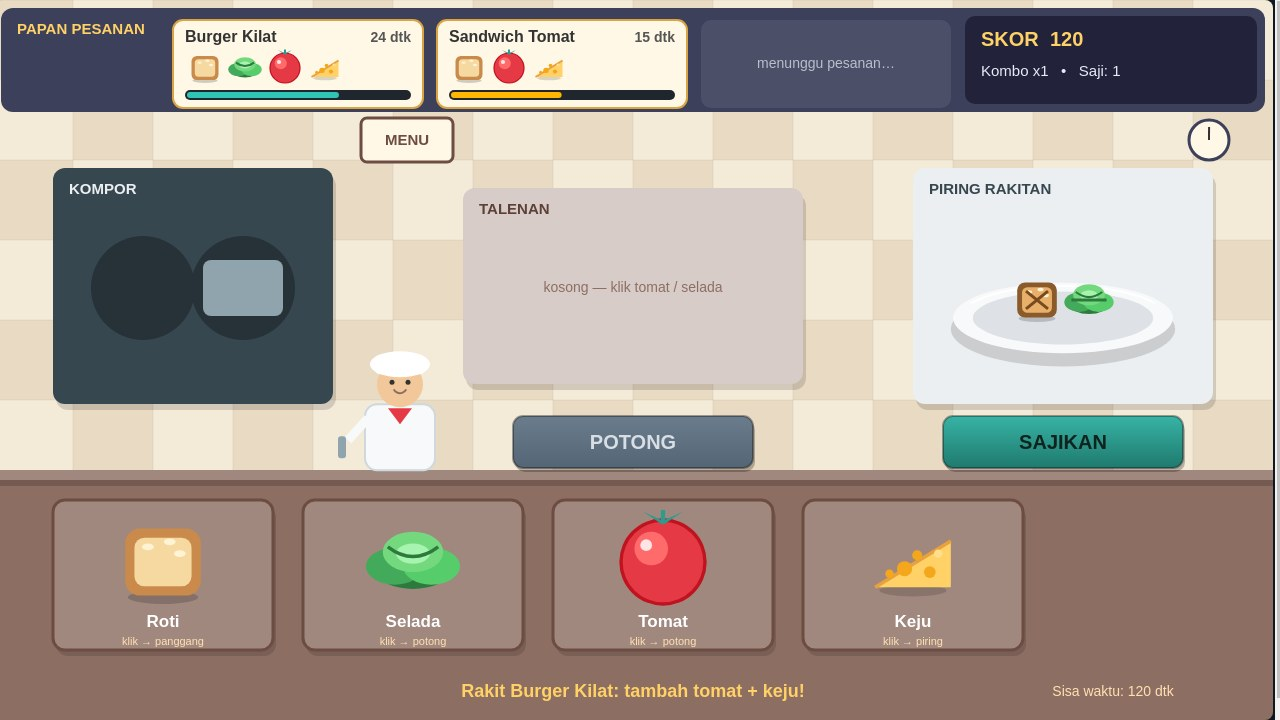
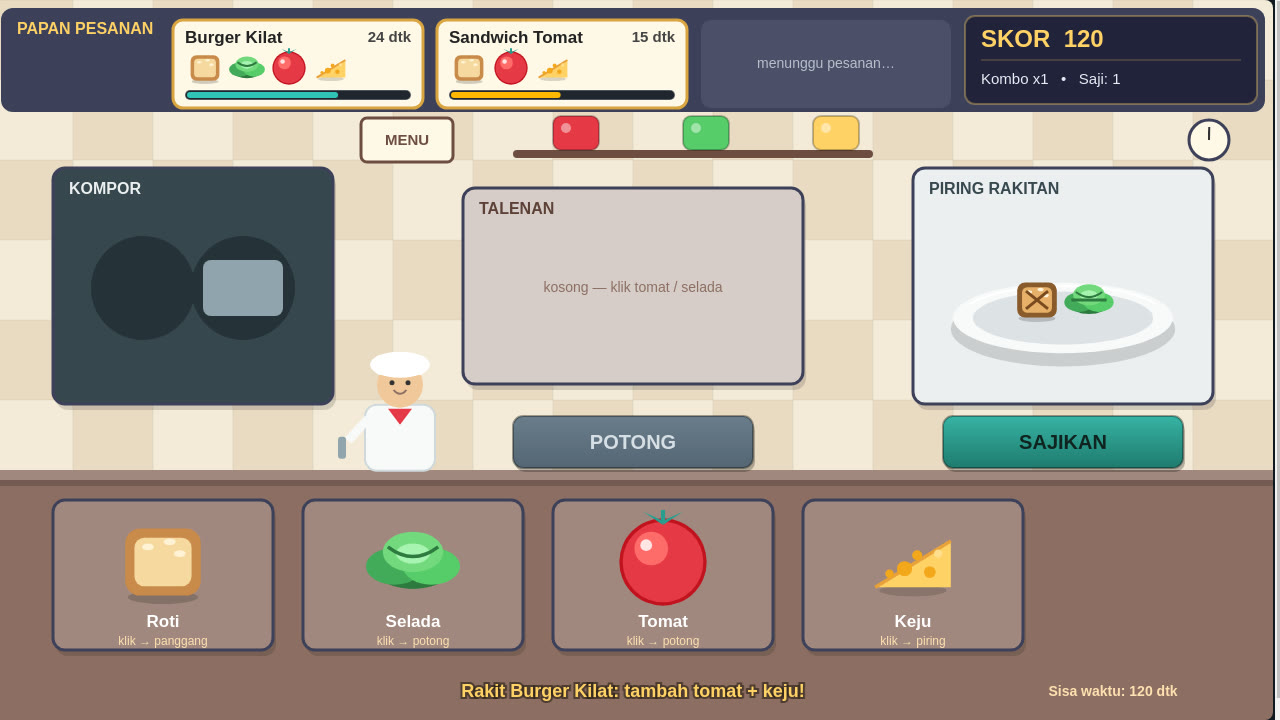
Polish profesional Dapur Kilat (ronde 3, terakhir): palet+outline seragam, tipografi hierarki, skor besar, rak toples, animasi tekan/pop, uap kompor

diff --git a/game/src/kitchen.js b/game/src/kitchen.js
@@ -29,6 +29,17 @@ function panelShadow(ctx, x, y, w, h) {
   ctx.fill();
 }
 
+// Panel seragam: bayangan + isi + garis tepi 3px warna garis palet, sudut 12.
+function panel(ctx, x, y, w, h, fill) {
+  panelShadow(ctx, x, y, w, h);
+  rr(ctx, x, y, w, h, R_PANEL);
+  ctx.fillStyle = fill;
+  ctx.fill();
+  ctx.lineWidth = LINE_W;
+  ctx.strokeStyle = PAL.line;
+  ctx.stroke();
+}
+
 function hitBin(x, y) {
   for (const b of LAYOUT.bins) {
     if (pointIn(b, x, y)) return b.kind;
@@ -70,7 +81,7 @@ function drawKitchen(ctx, G) {
   rr(ctx, LAYOUT.board.x, LAYOUT.board.y, LAYOUT.board.w, LAYOUT.board.h, 12);
   ctx.fillStyle = '#3d405b';
   ctx.fill();
-  txt(ctx, 'PAPAN PESANAN', 24, 30, 15, '#ffd166', 'left', true);
+  txt(ctx, 'PAPAN PESANAN', 24, 30, 16, '#ffd166', 'left', true);
   let cx = 180;
   for (let i = 0; i < 3; i++) {
     const o = G.orders[i];
@@ -88,8 +99,17 @@ function drawKitchen(ctx, G) {
   rr(ctx, LAYOUT.scoreBox.x, LAYOUT.scoreBox.y, LAYOUT.scoreBox.w, LAYOUT.scoreBox.h, 10);
   ctx.fillStyle = '#22223b';
   ctx.fill();
-  txt(ctx, 'SKOR  ' + G.score, LAYOUT.scoreBox.x + 16, LAYOUT.scoreBox.y + 24, 20, '#ffd166', 'left', true);
-  txt(ctx, 'Kombo x' + G.combo + '   •   Saji: ' + G.served, LAYOUT.scoreBox.x + 16, LAYOUT.scoreBox.y + 56, 15, '#e8eaf6', 'left');
+  ctx.lineWidth = 2;
+  ctx.strokeStyle = 'rgba(255,209,102,.35)';
+  ctx.stroke();
+  txt(ctx, 'SKOR  ' + G.score, LAYOUT.scoreBox.x + 16, LAYOUT.scoreBox.y + 24, 24, '#ffd166', 'left', true);
+  ctx.strokeStyle = 'rgba(255,209,102,.35)';
+  ctx.lineWidth = 1;
+  ctx.beginPath();
+  ctx.moveTo(LAYOUT.scoreBox.x + 16, LAYOUT.scoreBox.y + 44);
+  ctx.lineTo(LAYOUT.scoreBox.x + LAYOUT.scoreBox.w - 16, LAYOUT.scoreBox.y + 44);
+  ctx.stroke();
+  txt(ctx, 'Kombo x' + G.combo + '   •   Saji: ' + G.served, LAYOUT.scoreBox.x + 16, LAYOUT.scoreBox.y + 64, 15, '#e8eaf6', 'left');
   // papan menu kecil + jam dinding (strip kosong y 112..168)
   rr(ctx, 368, 118, 92, 44, 6);
   ctx.fillStyle = '#fff8e7';
@@ -109,12 +129,24 @@ function drawKitchen(ctx, G) {
   ctx.lineTo(1216 + Math.cos(ha) * 13, 140 + Math.sin(ha) * 13); ctx.stroke();
   ctx.beginPath(); ctx.moveTo(1216, 140);
   ctx.lineTo(1216, 140 - 9); ctx.stroke();
-  // kompor
-  panelShadow(ctx, LAYOUT.stove.x, LAYOUT.stove.y, LAYOUT.stove.w, LAYOUT.stove.h);
-  rr(ctx, LAYOUT.stove.x, LAYOUT.stove.y, LAYOUT.stove.w, LAYOUT.stove.h, 12);
-  ctx.fillStyle = '#37474f';
+  // rak dinding dengan toples — kedalaman latar (strip kosong y 112..168)
+  rr(ctx, 520, 150, 360, 8, 4);
+  ctx.fillStyle = '#6d4c41';
   ctx.fill();
-  txt(ctx, 'KOMPOR', LAYOUT.stove.x + 16, LAYOUT.stove.y + 22, 15, '#eceff1', 'left', true);
+  const jars = ['#e63946', '#57cc6a', '#ffd166'];
+  for (let j = 0; j < 3; j++) {
+    const jx = 560 + j * 130;
+    rr(ctx, jx, 116, 46, 34, 8);
+    ctx.fillStyle = jars[j];
+    ctx.fill();
+    ctx.lineWidth = 2;
+    ctx.strokeStyle = 'rgba(0,0,0,.25)';
+    ctx.stroke();
+    circle(ctx, jx + 13, 128, 5, 'rgba(255,255,255,.45)');
+  }
+  // kompor
+  panel(ctx, LAYOUT.stove.x, LAYOUT.stove.y, LAYOUT.stove.w, LAYOUT.stove.h, '#37474f');
+  txt(ctx, 'KOMPOR', LAYOUT.stove.x + 16, LAYOUT.stove.y + 22, 16, '#eceff1', 'left', true);
   circle(ctx, LAYOUT.stove.x + 90, LAYOUT.stove.y + 120, 52, '#263238');
   circle(ctx, LAYOUT.stove.x + 190, LAYOUT.stove.y + 120, 52, '#263238');
   rr(ctx, LAYOUT.stove.x + 150, LAYOUT.stove.y + 92, 80, 56, 8);
@@ -132,6 +164,7 @@ function drawKitchen(ctx, G) {
     circle(ctx, LAYOUT.stove.x + 76, LAYOUT.stove.y - 6 - st, 9, 'rgba(255,255,255,.45)');
     circle(ctx, LAYOUT.stove.x + 104, LAYOUT.stove.y - 18 - ((st + 18) % 46), 7, 'rgba(255,255,255,.35)');
     circle(ctx, LAYOUT.stove.x + 90, LAYOUT.stove.y - 12 - ((st + 32) % 46), 6, 'rgba(255,255,255,.3)');
+    circle(ctx, LAYOUT.stove.x + 118, LAYOUT.stove.y - 10 - ((st + 40) % 46), 8, 'rgba(255,255,255,.4)');
     ctx.strokeStyle = 'rgba(255,255,255,.35)';
     ctx.lineWidth = 3;
     ctx.beginPath();
@@ -142,11 +175,8 @@ function drawKitchen(ctx, G) {
     drawTimerBar(ctx, LAYOUT.stove.x + 30, LAYOUT.stove.y + 190, 220, 12, G.toasting.prog);
   }
   // talenan
-  panelShadow(ctx, LAYOUT.cutBoard.x, LAYOUT.cutBoard.y, LAYOUT.cutBoard.w, LAYOUT.cutBoard.h);
-  rr(ctx, LAYOUT.cutBoard.x, LAYOUT.cutBoard.y, LAYOUT.cutBoard.w, LAYOUT.cutBoard.h, 12);
-  ctx.fillStyle = '#d7ccc8';
-  ctx.fill();
-  txt(ctx, 'TALENAN', LAYOUT.cutBoard.x + 16, LAYOUT.cutBoard.y + 22, 15, '#5d4037', 'left', true);
+  panel(ctx, LAYOUT.cutBoard.x, LAYOUT.cutBoard.y, LAYOUT.cutBoard.w, LAYOUT.cutBoard.h, '#d7ccc8');
+  txt(ctx, 'TALENAN', LAYOUT.cutBoard.x + 16, LAYOUT.cutBoard.y + 22, 16, '#5d4037', 'left', true);
   if (G.cutting) {
     const shown = G.cutting.cutting && G.cutting.prog > 0 ? 'potong' : 'mentah';
     drawIngredient(ctx, G.cutting.kind, LAYOUT.cutBoard.x + 170, LAYOUT.cutBoard.y + 100, 90, shown);
@@ -161,28 +191,20 @@ function drawKitchen(ctx, G) {
   // koki kecil di celah kompor-talenan
   drawChef(ctx, G);
   // area piring rakitan
-  panelShadow(ctx, LAYOUT.plateArea.x, LAYOUT.plateArea.y, LAYOUT.plateArea.w, LAYOUT.plateArea.h);
-  rr(ctx, LAYOUT.plateArea.x, LAYOUT.plateArea.y, LAYOUT.plateArea.w, LAYOUT.plateArea.h, 12);
-  ctx.fillStyle = '#eceff1';
-  ctx.fill();
-  txt(ctx, 'PIRING RAKITAN', LAYOUT.plateArea.x + 16, LAYOUT.plateArea.y + 22, 15, '#37474f', 'left', true);
+  panel(ctx, LAYOUT.plateArea.x, LAYOUT.plateArea.y, LAYOUT.plateArea.w, LAYOUT.plateArea.h, '#eceff1');
+  txt(ctx, 'PIRING RAKITAN', LAYOUT.plateArea.x + 16, LAYOUT.plateArea.y + 22, 16, '#37474f', 'left', true);
   drawPlate(ctx, G.plate, LAYOUT.plateArea.x + 150, LAYOUT.plateArea.y + 150, 110);
   // 4 kotak bahan di meja bawah
   for (const b of LAYOUT.bins) {
-    panelShadow(ctx, b.x, b.y, b.w, b.h);
-    rr(ctx, b.x, b.y, b.w, b.h, 12);
-    ctx.fillStyle = '#a1887f';
-    ctx.fill();
-    ctx.lineWidth = 3;
-    ctx.strokeStyle = '#6d4c41';
-    ctx.stroke();
-    drawIngredient(ctx, b.kind, b.x + b.w / 2, b.y + 62, 84, 'mentah');
+    panel(ctx, b.x, b.y, b.w, b.h, '#a1887f');
+    const pop = (G.popKind === b.kind) ? 1 + 0.22 * Math.max(0, 1 - (G.elapsed - G.popAt) / 0.25) : 1;
+    drawIngredient(ctx, b.kind, b.x + b.w / 2, b.y + 62, 84 * pop, 'mentah');
     txt(ctx, ING[b.kind].name, b.x + b.w / 2, b.y + 122, 17, '#ffffff', 'center', true);
-    txt(ctx, ING[b.kind].hint, b.x + b.w / 2, b.y + 142, 11, '#ffe0b2', 'center');
+    txt(ctx, ING[b.kind].hint, b.x + b.w / 2, b.y + 142, 12, '#ffe0b2', 'center');
   }
   // tombol
-  drawButton(ctx, LAYOUT.cutBtn.x, LAYOUT.cutBtn.y, LAYOUT.cutBtn.w, LAYOUT.cutBtn.h, 'POTONG', !!G.cutting, false);
-  drawButton(ctx, LAYOUT.serveBtn.x, LAYOUT.serveBtn.y, LAYOUT.serveBtn.w, LAYOUT.serveBtn.h, 'SAJIKAN', G.plate.length > 0, plateMatches(G));
+  drawButton(ctx, LAYOUT.cutBtn.x, LAYOUT.cutBtn.y, LAYOUT.cutBtn.w, LAYOUT.cutBtn.h, 'POTONG', !!G.cutting, false, G.pressBtn === 'cut' && (G.elapsed - G.pressAt) < 0.18);
+  drawButton(ctx, LAYOUT.serveBtn.x, LAYOUT.serveBtn.y, LAYOUT.serveBtn.w, LAYOUT.serveBtn.h, 'SAJIKAN', G.plate.length > 0, plateMatches(G), G.pressBtn === 'serve' && (G.elapsed - G.pressAt) < 0.18);
   // teks skor melayang
   for (const f of G.floaters) {
     ctx.globalAlpha = Math.max(0, Math.min(1, f.t));
@@ -197,9 +219,9 @@ function drawKitchen(ctx, G) {
   }
   // pesan + sisa waktu
   if (G.message) {
-    txt(ctx, G.message, LAYOUT.msg.x, LAYOUT.msg.y, 18, '#ffd166', 'center', true);
+    txtO(ctx, G.message, LAYOUT.msg.x, LAYOUT.msg.y, 18, '#ffd166', 'center', true);
   }
-  txt(ctx, 'Sisa waktu: ' + Math.max(0, Math.ceil(120 - G.elapsed)) + ' dtk', 1120, 692, 14, '#ffe0b2', 'center');
+  txt(ctx, 'Sisa waktu: ' + Math.max(0, Math.ceil(120 - G.elapsed)) + ' dtk', 1120, 692, 14, '#ffe0b2', 'center', true);
   if (G.state === 'menu') drawMenu(ctx, G);
   else if (G.state === 'over') drawOver(ctx, G);
 }
@@ -249,6 +271,9 @@ function drawMenu(ctx, G) {
   ctx.fillStyle = 'rgba(20, 30, 40, 0.72)';
   ctx.fillRect(0, 0, 1280, 720);
   txt(ctx, 'DAPUR KILAT', 640, 220, 64, '#ffd166', 'center', true);
+  rr(ctx, 520, 252, 240, 6, 3);
+  ctx.fillStyle = '#ffd166';
+  ctx.fill();
   txt(ctx, 'Game masak cepat — layani pesanan sebelum waktunya habis!', 640, 290, 20, '#ffffff', 'center');
   txt(ctx, '1. Klik bahan di meja bawah', 640, 350, 17, '#cfe3d8', 'center');
   txt(ctx, '2. Tomat & selada dipotong di talenan • Roti dipanggang di kompor', 640, 382, 17, '#cfe3d8', 'center');

diff --git a/game/src/render.js b/game/src/render.js
@@ -19,6 +19,22 @@ function txt(ctx, s, x, y, size, color, align, bold) {
   ctx.fillText(s, x, y);
 }
 
+// Palet + ukuran konsisten untuk semua panel/kartu/tombol (gaya menyatu).
+const PAL = { ink: '#2b2b3a', line: '#3d405b', gold: '#ffd166', cream: '#fff8e7' };
+const R_PANEL = 12, R_CARD = 10, LINE_W = 3;
+
+// Teks dengan outline gelap — tetap terbaca di atas latar ramai / saat diperkecil.
+function txtO(ctx, s, x, y, size, color, align, bold) {
+  ctx.font = (bold ? 'bold ' : '') + size + 'px Verdana, sans-serif';
+  ctx.textAlign = align || 'left';
+  ctx.textBaseline = 'middle';
+  ctx.lineWidth = 4;
+  ctx.strokeStyle = 'rgba(30,20,10,.55)';
+  ctx.strokeText(s, x, y);
+  ctx.fillStyle = color;
+  ctx.fillText(s, x, y);
+}
+
 function circle(ctx, x, y, r, color) {
   ctx.fillStyle = color;
   ctx.beginPath();
@@ -194,6 +210,9 @@ function drawTimerBar(ctx, x, y, w, h, frac) {
   rr(ctx, x, y, w, h, h / 2);
   ctx.fillStyle = '#20262e';
   ctx.fill();
+  ctx.lineWidth = 1.5;
+  ctx.strokeStyle = 'rgba(255,255,255,.28)';
+  ctx.stroke();
   if (f > 0.02) {
     const col = f > 0.5 ? '#2ec4b6' : f > 0.25 ? '#ffb703' : '#ef476f';
     rr(ctx, x + 2, y + 2, (w - 4) * f, h - 4, (h - 4) / 2);
@@ -202,46 +221,52 @@ function drawTimerBar(ctx, x, y, w, h, frac) {
   }
 }
 
-function drawButton(ctx, x, y, w, h, label, enabled, hot) {
-  rr(ctx, x + 2, y + 4, w, h, 10);
-  ctx.fillStyle = 'rgba(0,0,0,.25)';
+function drawButton(ctx, x, y, w, h, label, enabled, hot, pressed) {
+  const py = pressed ? y + 2 : y;
+  rr(ctx, x + 2, py + 4, w, h, R_CARD);
+  ctx.fillStyle = pressed ? 'rgba(0,0,0,.12)' : 'rgba(0,0,0,.25)';
   ctx.fill();
-  const g = ctx.createLinearGradient(x, y, x, y + h);
+  const g = ctx.createLinearGradient(x, py, x, py + h);
   if (!enabled) { g.addColorStop(0, '#6b7d8c'); g.addColorStop(1, '#546575'); }
   else if (hot) { g.addColorStop(0, '#ffe082'); g.addColorStop(1, '#ffb703'); }
   else { g.addColorStop(0, '#37b3a5'); g.addColorStop(1, '#1f7a6e'); }
-  rr(ctx, x, y, w, h, 10);
+  rr(ctx, x, py, w, h, R_CARD);
   ctx.fillStyle = g;
   ctx.fill();
+  if (pressed) {
+    rr(ctx, x, py, w, h, R_CARD);
+    ctx.fillStyle = 'rgba(0,0,0,.18)';
+    ctx.fill();
+  }
   ctx.lineWidth = 2;
   ctx.strokeStyle = hot ? '#fff3d6' : 'rgba(0,0,0,.35)';
   ctx.stroke();
   if (hot) {
     ctx.strokeStyle = 'rgba(255,209,102,.8)';
     ctx.lineWidth = 4;
-    rr(ctx, x - 3, y - 3, w + 6, h + 6, 12);
+    rr(ctx, x - 3, py - 3, w + 6, h + 6, R_CARD + 2);
     ctx.stroke();
   }
-  txt(ctx, label, x + w / 2, y + h / 2 + 1, 20, enabled ? '#10231f' : '#d7dee5', 'center', true);
+  txt(ctx, label, x + w / 2, py + h / 2 + 1, 20, enabled ? '#10231f' : '#d7dee5', 'center', true);
 }
 
 // Kartu pesanan: nama resep + ikon bahan + bar timer.
 function drawOrderCard(ctx, o, x, y, w, h) {
   const urgent = !o.done && !o.failed && o.t <= 5;
-  rr(ctx, x, y, w, h, 10);
+  rr(ctx, x, y, w, h, R_CARD);
   ctx.fillStyle = o.done ? '#2a9d8f' : (urgent ? '#ffe3e3' : '#fff8e7');
   ctx.fill();
-  ctx.lineWidth = urgent ? 4 : 2;
+  ctx.lineWidth = urgent ? 4 : LINE_W;
   ctx.strokeStyle = (o.failed || urgent) ? '#ef476f' : '#d9a441';
   ctx.stroke();
-  txt(ctx, o.recipe.name, x + 12, y + 18, 16, '#333333', 'left', true);
+  txt(ctx, o.recipe.name, x + 12, y + 18, 17, '#222222', 'left', true);
   let ix = x + 16;
   for (const k of o.recipe.items) {
-    drawIngredient(ctx, k, ix + 16, y + 48, 30, 'mentah');
-    ix += 40;
+    drawIngredient(ctx, k, ix + 16, y + 48, 32, 'mentah');
+    ix += 42;
   }
   drawTimerBar(ctx, x + 12, y + h - 18, w - 24, 10, o.t / o.max);
-  txt(ctx, Math.ceil(o.t) + ' dtk', x + w - 12, y + 18, 14, urgent ? '#d62828' : '#555555', 'right', true);
+  txt(ctx, Math.ceil(o.t) + ' dtk', x + w - 12, y + 18, 15, urgent ? '#d62828' : '#444444', 'right', true);
   if (urgent) {
     circle(ctx, x + w - 14, y + h - 34, 11, '#ef476f');
     txt(ctx, '!', x + w - 14, y + h - 33, 14, '#ffffff', 'center', true);

diff --git a/game/src/main.js b/game/src/main.js
@@ -9,6 +9,7 @@ const G = {
   elapsed: 0, spawnT: 1.2,
   orders: [], plate: [], cutting: null, toasting: null,
   message: '', messageT: 0, floaters: [],
+  pressBtn: null, pressAt: -10, popKind: null, popAt: -10,
 };
 
 function startGame() {
@@ -57,10 +58,10 @@ canvas.addEventListener('click', (e) => {
   const p = canvasPos(e);
   if (G.state === 'menu' || G.state === 'over') { startGame(); return; }
   const btn = hitButton(p.x, p.y);
-  if (btn === 'cut') { doCut(G); return; }
-  if (btn === 'serve') { tryServe(G); return; }
+  if (btn === 'cut') { G.pressBtn = 'cut'; G.pressAt = G.elapsed; doCut(G); return; }
+  if (btn === 'serve') { G.pressBtn = 'serve'; G.pressAt = G.elapsed; tryServe(G); return; }
   const kind = hitBin(p.x, p.y);
-  if (kind) addIngredient(G, kind);
+  if (kind) { G.popKind = kind; G.popAt = G.elapsed; addIngredient(G, kind); }
 });
 
 document.addEventListener('keydown', (e) => {
